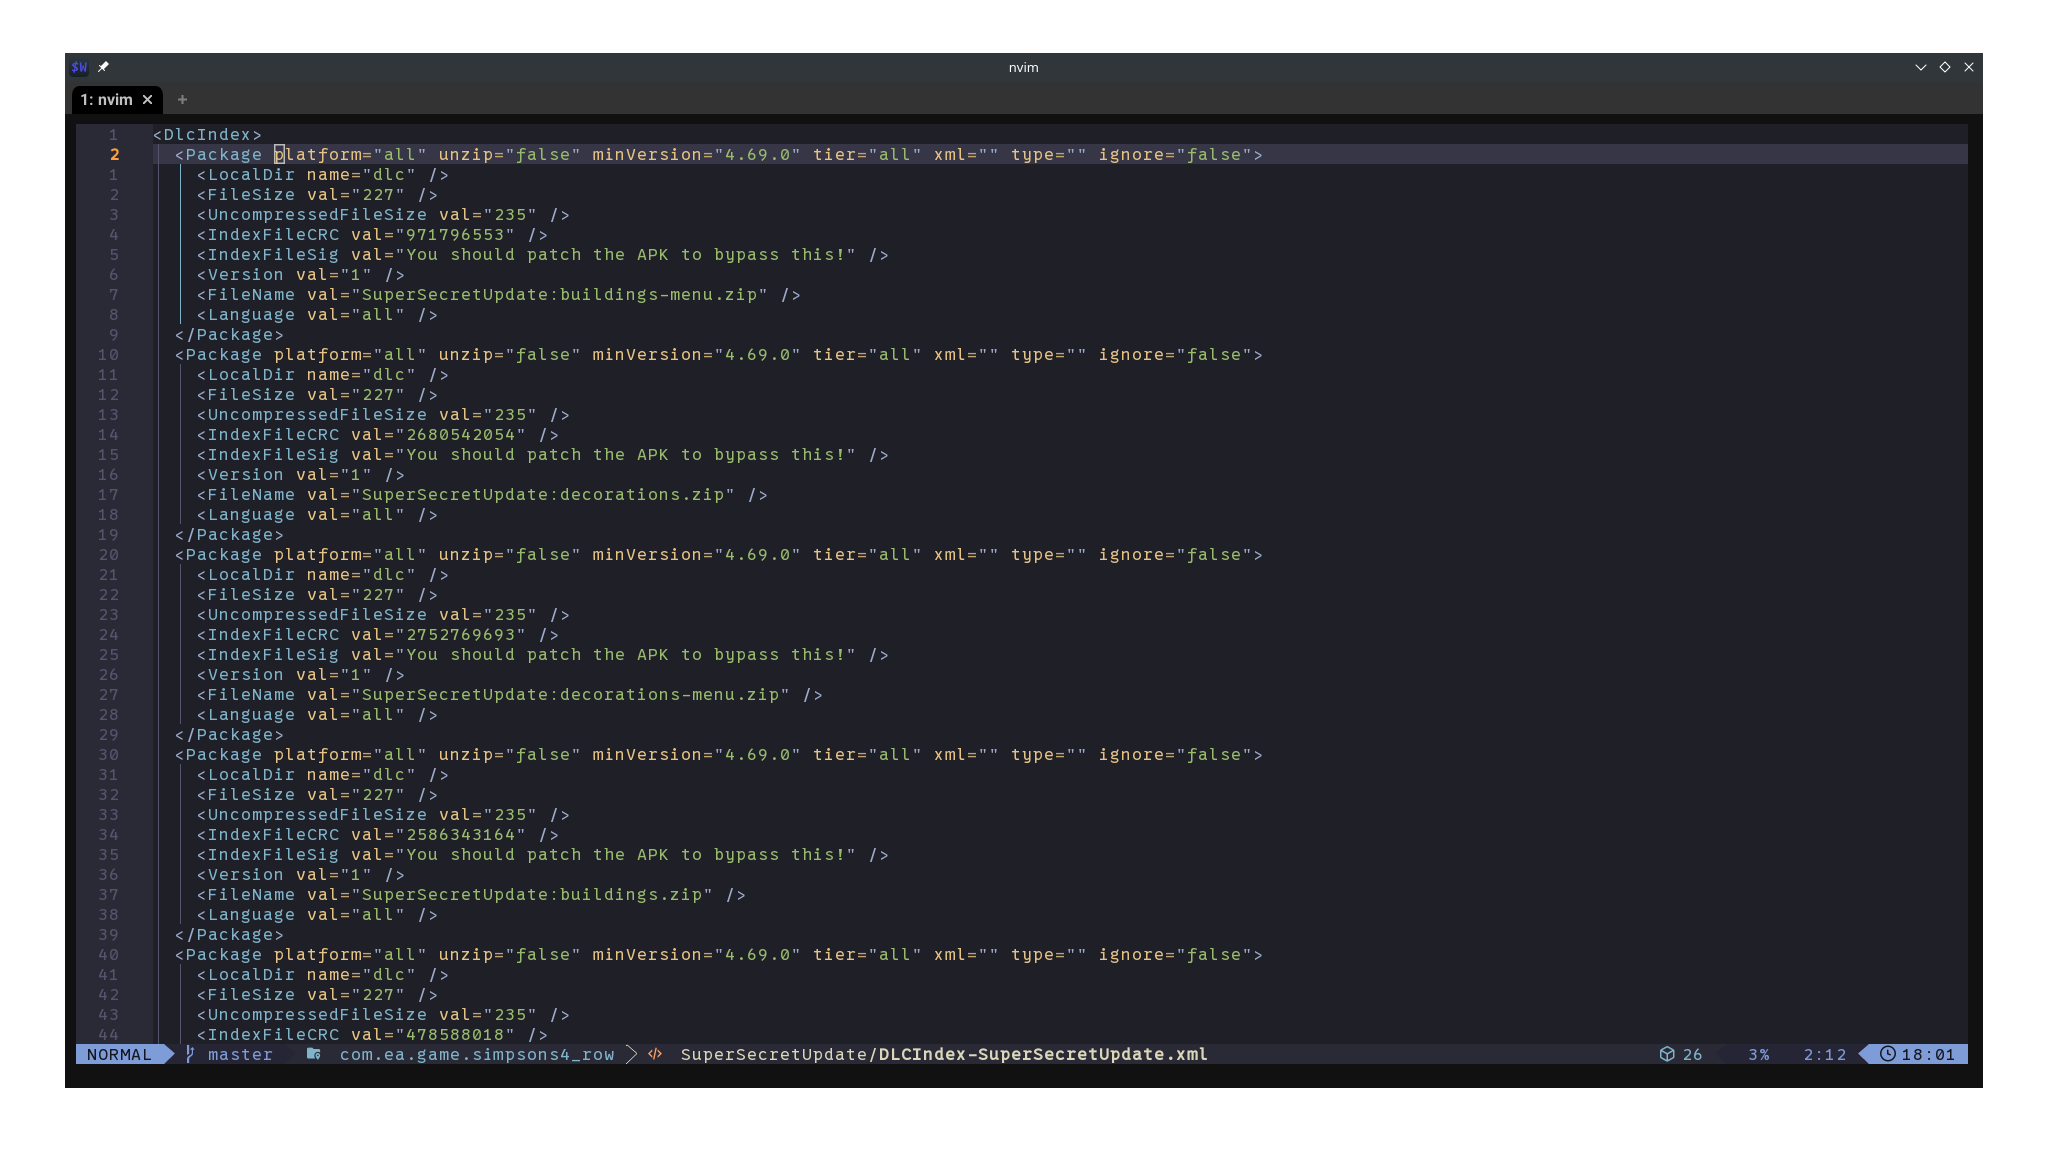
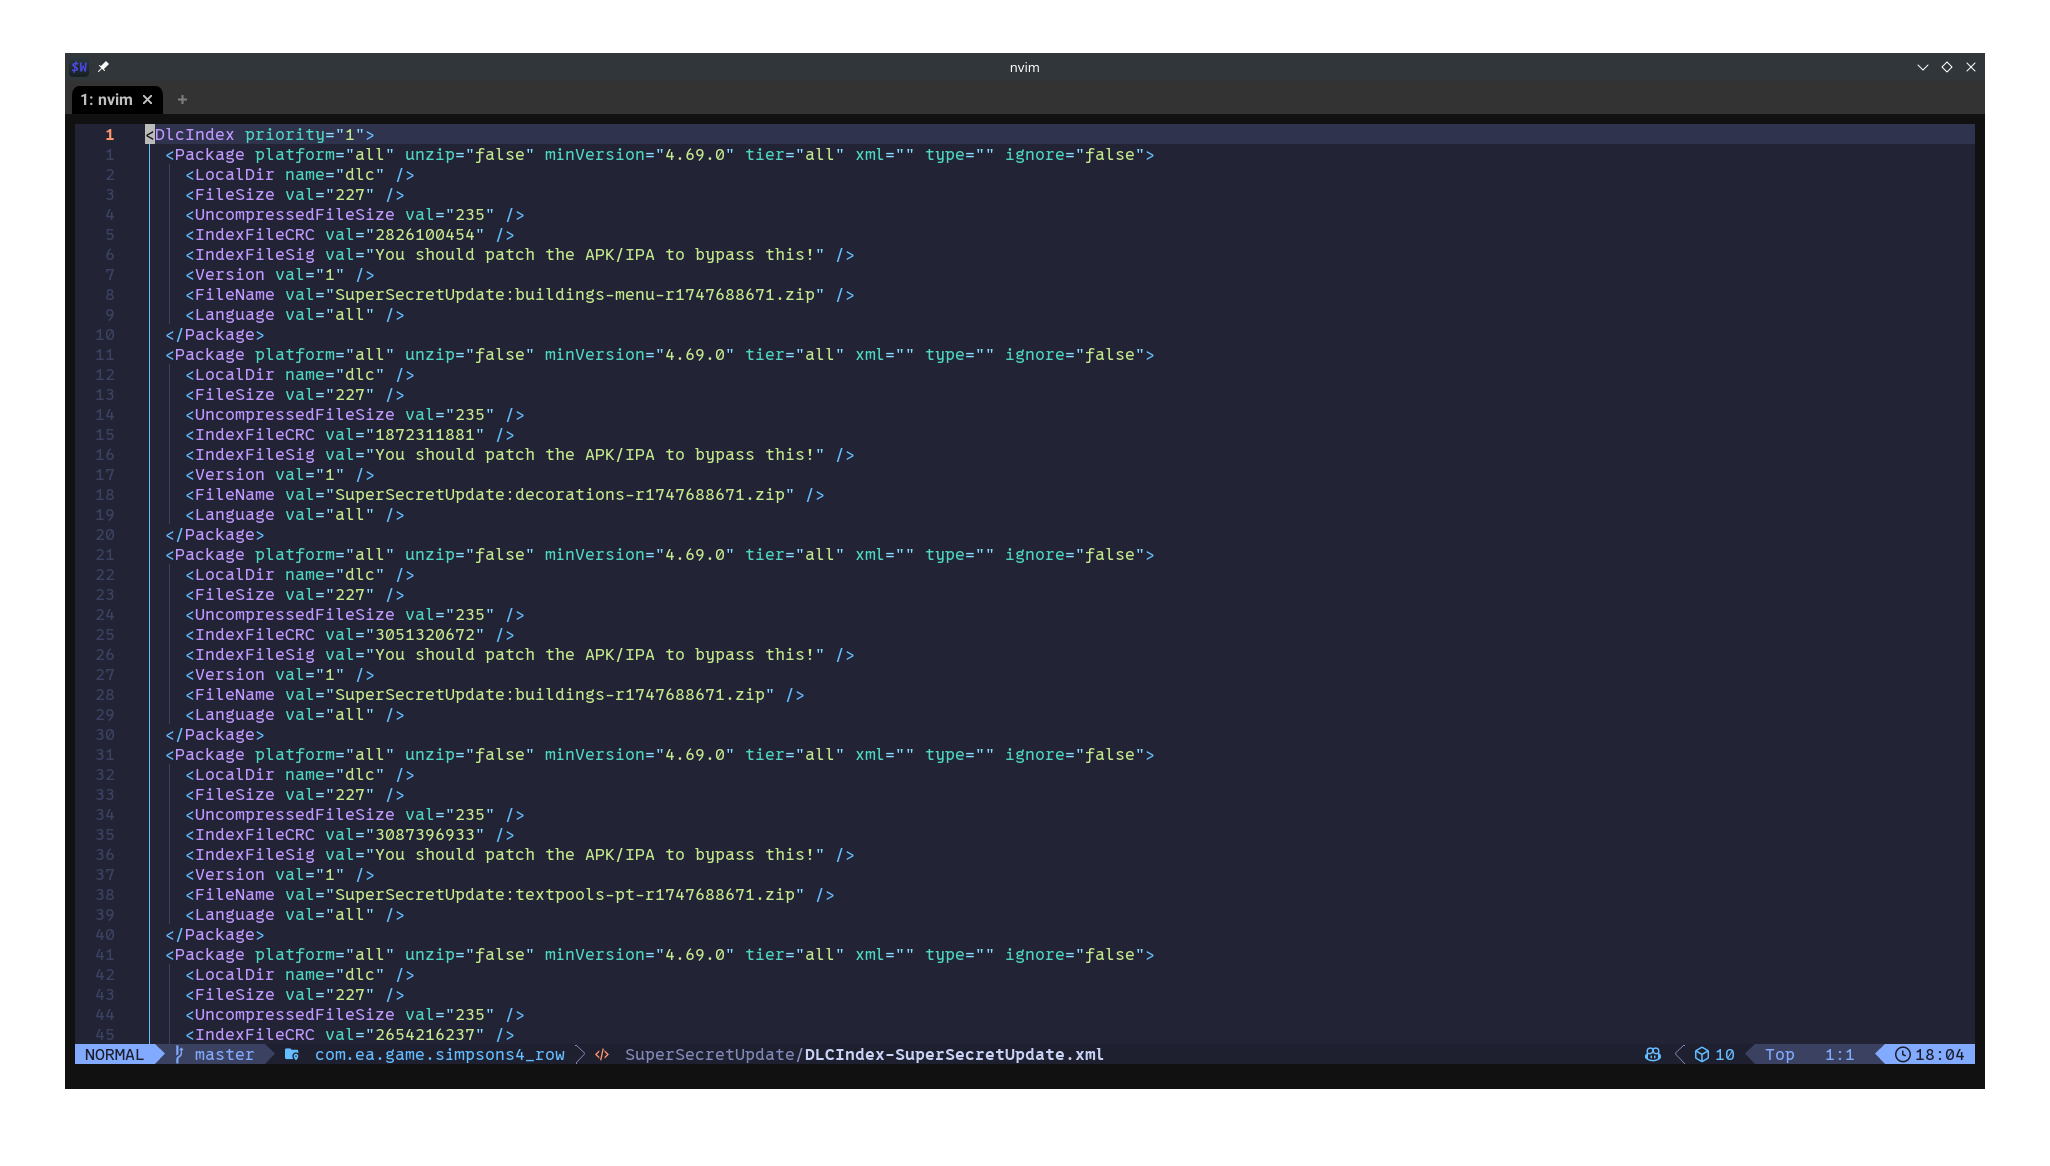
updated images

Changed region(s): [[0.0312, 0.0927, 0.9688, 0.927], [0.7812, 0.8961, 0.9688, 0.927], [0.5, 0.618, 0.5625, 0.6489]]

diff --git a/README.md b/README.md
@@ -268,7 +268,7 @@ All previous options discussed earlier work here as well.
 
 ## Revision system
 
-You might have noticed that when you install a dlc into your server dlc repository, the dlc components (zip files) receive something like r-123456789.zip to their
+You might have noticed that when you install a dlc into your server dlc repository, the dlc components (zip files) receive something like -r123456789.zip to their
 names. This is the revision system and it behaves as some kind of version control whereas 123456789 corresponds to the number of that specific revision (epoch time).
 The purpose of this system is to allow one to update dlcs that are already installed on one's device.
 
